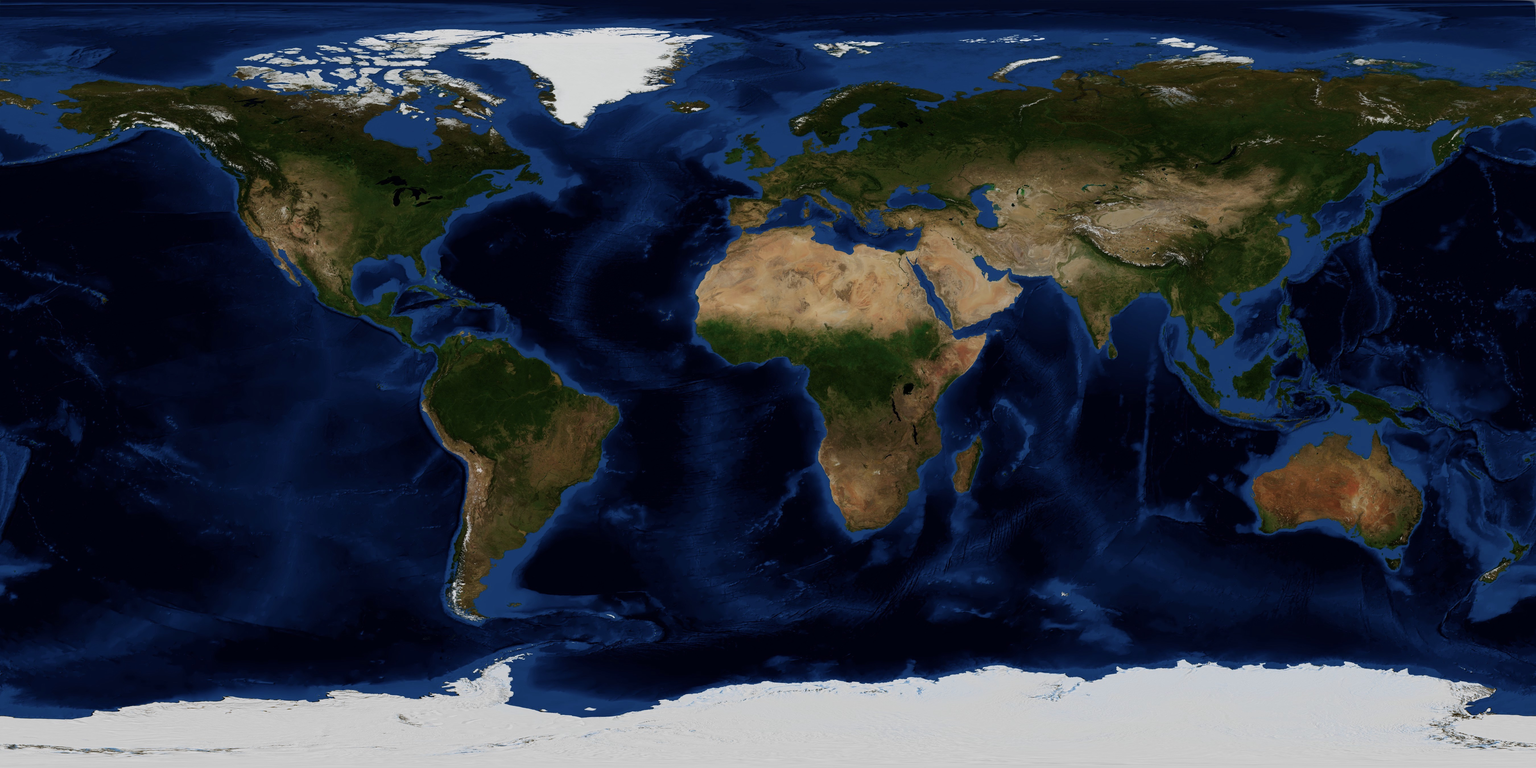
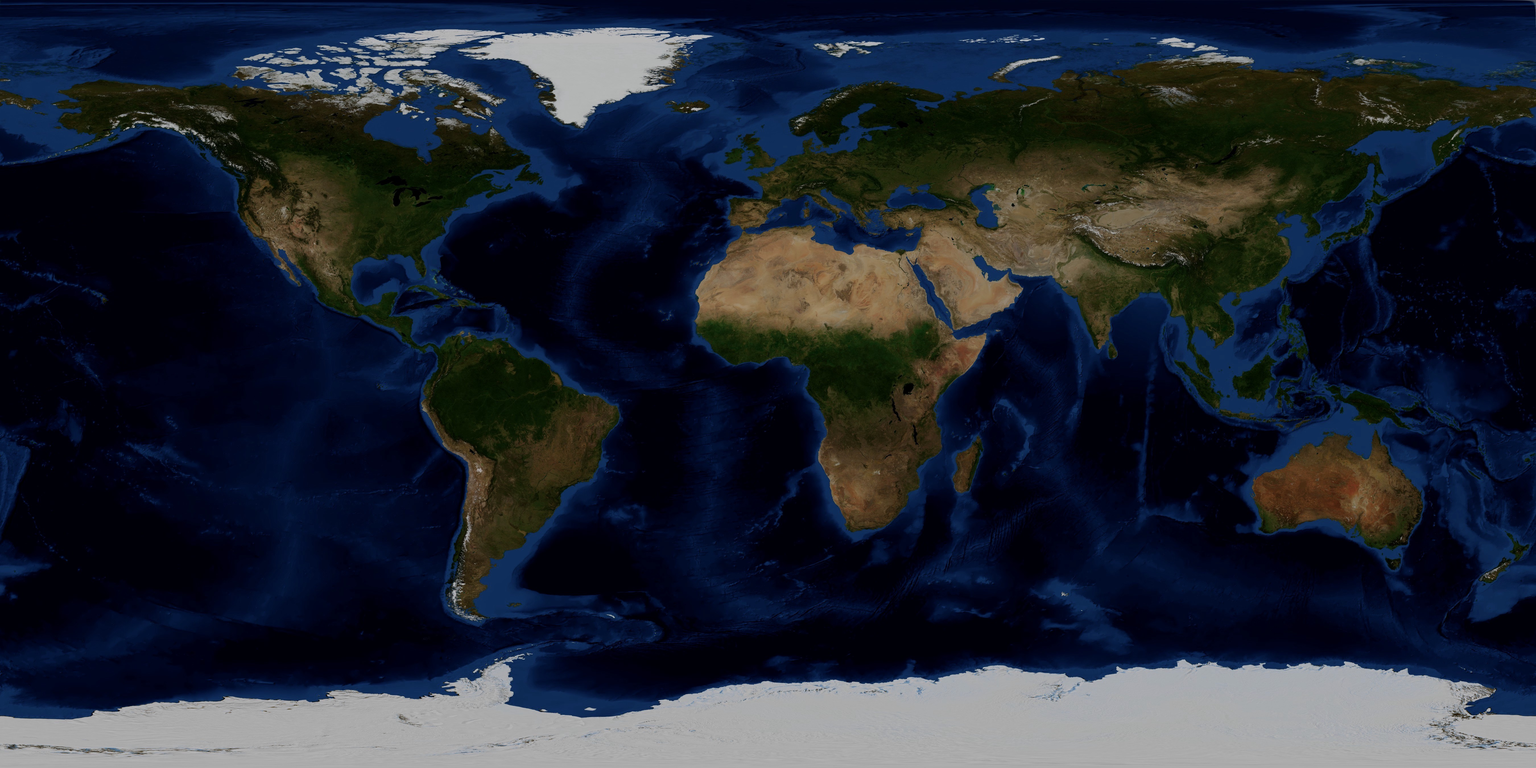
Added elevation to vertices

diff --git a/static/js/earth.js b/static/js/earth.js
@@ -1,34 +1,42 @@
-// import { Vector3 } from './three.js'
-// import { Vector2 } from './three.js'
-import * as THREE from 'three';
+import { Vector3 } from 'three'
+import { Vector2 } from 'three'
+// import * as THREE from 'three';
+import data from '../data/heightData4096.json' assert { type: 'json' };
 
 
 export default class Earth {
     constructor(radius, resolution, position) {
-        this.radius = radius
-        this.resolution = resolution
-        this.position = position
-        this.faces = []
+        this.radius = radius;
+        this.resolution = resolution;
+        this.position = position;
+        this.faces = [];
+
+		// fetch('https://server.com/data.json')
+		// .then((response) => response.json())
+		// .then((json) => console.log(json));
+		
+		// heightData = JSON.parse(data);
+		// console.log(data);
 
         // normal for each face     front, back, right, left, top, bottom
-        const normals = [new THREE.Vector3(0, 0, 1), 
-            new THREE.Vector3(0, 0, -1), 
-            new THREE.Vector3(1, 0, 0), 
-            new THREE.Vector3(-1, 0, 0), 
-            new THREE.Vector3(0, 1, 0), 
-            new THREE.Vector3(0, -1, 0)]
+        const normals = [new Vector3(0, 0, 1), 
+            new Vector3(0, 0, -1), 
+            new Vector3(1, 0, 0), 
+            new Vector3(-1, 0, 0), 
+            new Vector3(0, 1, 0), 
+            new Vector3(0, -1, 0)];
 
-        const axesAndCorner = [[new THREE.Vector3(1, 0, 0), new THREE.Vector3(0, -1, 0), new THREE.Vector3(-1, 1, 1)],
-            [new THREE.Vector3(-1, 0, 0), new THREE.Vector3(0, -1, 0), new THREE.Vector3(1, 1, -1)],
-            [new THREE.Vector3(0, 0, -1), new THREE.Vector3(0, -1, 0), new THREE.Vector3(1, 1, 1)],
-            [new THREE.Vector3(0, 0, 1), new THREE.Vector3(0, -1, 0), new THREE.Vector3(-1, 1, -1)],
-            [new THREE.Vector3(0, 0, 1), new THREE.Vector3(-1, 0, 0), new THREE.Vector3(1, 1, -1)],
-            [new THREE.Vector3(0, 0, 1), new THREE.Vector3(1, 0, 0), new THREE.Vector3(-1, -1, -1)]]
+        const axesAndCorner = [[new Vector3(1, 0, 0), new Vector3(0, -1, 0), new Vector3(-1, 1, 1)],
+            [new Vector3(-1, 0, 0), new Vector3(0, -1, 0), new Vector3(1, 1, -1)],
+            [new Vector3(0, 0, -1), new Vector3(0, -1, 0), new Vector3(1, 1, 1)],
+            [new Vector3(0, 0, 1), new Vector3(0, -1, 0), new Vector3(-1, 1, -1)],
+            [new Vector3(0, 0, 1), new Vector3(-1, 0, 0), new Vector3(1, 1, -1)],
+            [new Vector3(0, 0, 1), new Vector3(1, 0, 0), new Vector3(-1, -1, -1)]];
         
         // calls constructor to make each face
         for(let i=0; i<6; i++) {
-            let face = new PlanetFace(radius, resolution, normals[i], axesAndCorner[i], i)
-            this.faces[i] = face
+            let face = new PlanetFace(radius, resolution, normals[i], axesAndCorner[i], i);
+            this.faces[i] = face;
         }
     }
 }
@@ -36,99 +44,109 @@ export default class Earth {
 // builds each face
 class PlanetFace {
     constructor(radius, resolution, normal, axesAndCorner, face) {
-        this.vertices = []
+        this.vertices = [];
         //array storing UV coordinates
-        this.uvs = []
+        this.uvs = [];
         //face is on z = 0 line
-        this.indices = []
+        this.indices = [];
 
         // horizontal and vertical axes of plane
-        const axisA = axesAndCorner[0]
-        const axisB = axesAndCorner[1]
-        const cornerPoint = axesAndCorner[2]
+        const axisA = axesAndCorner[0];
+        const axisB = axesAndCorner[1];
+        const cornerPoint = axesAndCorner[2];
 
         // generate vertices, start at corner point then build along axis a then b
         for(let j=0; j <= resolution; j++) 
         {
-            const currentVertexB = axisB.clone()
-            currentVertexB.multiplyScalar((j / resolution) * 2)
+            const currentVertexB = axisB.clone();
+            currentVertexB.multiplyScalar((j / resolution) * 2);
             for(let k=0; k <= resolution; k++)
             {
-                const currentVertexA = axisA.clone()
-                currentVertexA.multiplyScalar((k / resolution) * 2)
+                const currentVertexA = axisA.clone();
+                currentVertexA.multiplyScalar((k / resolution) * 2);
 
-                let currentVertex = cornerPoint.clone()
-                currentVertex.add(currentVertexA).add(currentVertexB)
+				// add vertexB and vertexA to corner point to get current vertex location
+                let currentVertex = cornerPoint.clone();
+                currentVertex.add(currentVertexA).add(currentVertexB);
 
                 // currentVertex.normalize()
 
-                currentVertex = PlanetFace.cubeToSphere(currentVertex)
-                const currentUV = PlanetFace.pointOnSphereToUV(currentVertex)
+				// get location on sphere and UV
+                currentVertex = PlanetFace.cubeToSphere(currentVertex);
+                const currentUV = PlanetFace.pointOnSphereToUV(currentVertex);
 
-                // find height at point
+                // find height at point (inverse y so its not upside down)
+				let x = Math.round(data.length * currentUV.x);
+				let y = Math.round(data.length/2 - data.length/2 * currentUV.y);
 
+				// so x/y arent out of bounds (data.length is same as 0)
+				if(x == data.length) { x=0; }
+				if(y == data.length/2) { y=0; }
 
-                currentVertex.multiplyScalar(radius*2)
+				let heightMult = 0.03;
+				let vertexHeight = radius + data[x][y] / 255 * heightMult;
+
+                currentVertex.multiplyScalar(vertexHeight);
 
                 // on seam add another vertex with u = 1
                 if(currentVertex.z == 0 && normal.x != 1) {
                     if(currentVertex.x > 0) {
-                        this.uvs.push(currentUV.x, currentUV.y)
+                        this.uvs.push(currentUV.x, currentUV.y);
                     } else {
-                        this.uvs.push(1, currentUV.y)
+                        this.uvs.push(1, currentUV.y);
                     }
-                    this.vertices.push(currentVertex.x, currentVertex.y, currentVertex.z)
+                    this.vertices.push(currentVertex.x, currentVertex.y, currentVertex.z);
                 }
-                this.uvs.push(currentUV.x, currentUV.y) 
-                this.vertices.push(currentVertex.x, currentVertex.y, currentVertex.z)
+                this.uvs.push(currentUV.x, currentUV.y);
+                this.vertices.push(currentVertex.x, currentVertex.y, currentVertex.z);
             }
         }
 
-        let i = 0, resolutionX = resolution
+        let i = 0, resolutionX = resolution;
         if(normal.x == -1 || normal.y == 1 || normal.y == -1) {
-            resolutionX ++
+            resolutionX ++;
         }
         // build triangles from each point
         for(let j=0; j < resolution; j++) 
         {
             for(let k=0; k < resolutionX; k++)
             {
-                const a = i
-                const b = i + 1
-                const c = i + resolutionX + 1
-                const d = i + resolutionX + 2
+                const a = i;
+                const b = i + 1;
+                const c = i + resolutionX + 1;
+                const d = i + resolutionX + 2;
 
                 // add indices of both triangles
-                this.indices.push(a, c, b)
-                this.indices.push(c, d, b)
-                i++
+                this.indices.push(a, c, b);
+                this.indices.push(c, d, b);
+                i++;
             }
-            i++
+            i++;
         }
     }
 
     static cubeToSphere(p) {
-        const px = p.getComponent(0)
-        const py = p.getComponent(1)
-        const pz = p.getComponent(2)
+        const px = p.getComponent(0);
+        const py = p.getComponent(1);
+        const pz = p.getComponent(2);
     	const x2 = px * px;
     	const y2 = py * py;
     	const z2 = pz * pz;
     	const x = px * Math.sqrt(1 - (y2 + z2) / 2 + (y2 * z2) / 3);
     	const y = py * Math.sqrt(1 - (z2 + x2) / 2 + (z2 * x2) / 3);
     	const z = pz * Math.sqrt(1 - (x2 + y2) / 2 + (x2 * y2) / 3);
-    	return new THREE.Vector3(x, y, z);
+    	return new Vector3(x, y, z);
     }
 
-    // calculate all before hand and store in array
-    static pointOnSphereToUV(point) {
-        const p = point.clone()
-        // p.normalize()
-        const x = p.getComponent(0)
-        const y = p.getComponent(1)
-        const z = p.getComponent(2)
-        const v = 0.5 + (Math.asin(y) / Math.PI)
-        const u = 0.5 - (Math.atan2(z, x) / (2 * Math.PI))
-        return new THREE.Vector2(u, v)
+    // should calculate all before hand and store in array
+    static pointOnSphereToUV(p) {
+        // const p = point.clone();
+        // p.normalize();
+        const x = p.getComponent(0);
+        const y = p.getComponent(1);
+        const z = p.getComponent(2);
+        const v = 0.5 + (Math.asin(y) / Math.PI);
+        const u = 0.5 - (Math.atan2(z, x) / (2 * Math.PI));
+        return new Vector2(u, v);
     }
 }

diff --git a/static/js/main.js b/static/js/main.js
@@ -10,7 +10,7 @@ import Earth from './earth.js';
 const textureLoader = new THREE.TextureLoader();
 const normalTexture = textureLoader.load('./imgs/fullNormal.jfif');
 const earthTexture = textureLoader.load('./imgs/ULQColor_edit.jpg');
-const UVmap = textureLoader.load('./imgs/UVmap.png');
+// const UVmap = textureLoader.load('./imgs/UVmap.png');
 // console.log(earthTexture)
 
 
@@ -22,7 +22,7 @@ const scene = new THREE.Scene();
 
 // Materials
 const earthMat = new THREE.MeshStandardMaterial({
-    normalMap: normalTexture,
+    // normalMap: normalTexture,
     map: earthTexture
 });
 
@@ -30,7 +30,7 @@ const basicMat = new THREE.MeshBasicMaterial({
     map: earthTexture
 });
 
-const rad = 1, res = 100;
+const rad = 1, res = 1000;
 const earth = new Earth(rad, res, new THREE.Vector3(0, 0, 0));
 const earthGroup = new THREE.Group();
 
@@ -46,26 +46,31 @@ for(let i=0; i<6; i++) {
     geometry[i].setAttribute( 'uv', new THREE.Float32BufferAttribute(earth.faces[i].uvs, 2, res * res * 6));
     // console.log(geometry[i])
 
-    // const wireframe = new THREE.WireframeGeometry( geometry[i] )
-    // const line = new THREE.LineSegments( wireframe )
-    // line.material.depthTest = false
-    // line.material.opacity = 0.25
-    // line.material.transparent = true
-    // earthGroup.add(line)
+    // const wireframe = new THREE.WireframeGeometry( geometry[i] );
+    // const line = new THREE.LineSegments( wireframe );
+    // line.material.depthTest = false;
+    // line.material.opacity = 0.25;
+    // line.material.transparent = true;
+    // earthGroup.add(line);
 
 }
 let singleGeometry = BufferGeometryUtils.mergeGeometries(geometry);
-// const singleMesh = new THREE.Mesh(singleGeometry, earthMat);
-const singleMesh = new THREE.Mesh(singleGeometry, basicMat);
+const singleMesh = new THREE.Mesh(singleGeometry, earthMat);
+// const singleMesh = new THREE.Mesh(singleGeometry, basicMat);
 earthGroup.add(singleMesh);
 // console.log(earthGroup)
 
 scene.add(earthGroup);
 
 // Lights
-const pointLight = new THREE.PointLight(0xffffff, 5, 10);
-pointLight.position.set(-3.2, 2, 7.5);
-scene.add(pointLight);
+// const pointLight = new THREE.PointLight(0xffffff, 5, 15);
+// pointLight.position.set(-3.2, 2, 8);
+// scene.add(pointLight);
+
+const dirLight = new THREE.DirectionalLight(0xffffff, 1);
+dirLight.position.set(-.7, .2, 0.6);
+// dirLight.castShadow = true;
+scene.add(dirLight);
 
 let screenWidth = window.innerWidth;
 let screenHeight = window.innerHeight;
@@ -89,7 +94,7 @@ window.addEventListener('resize', () =>
 const camera = new THREE.PerspectiveCamera(75, screenWidth / screenHeight, 0.1, 100);
 camera.position.x = 0;
 camera.position.y = 0;
-camera.position.z = 4;
+camera.position.z = 2;
 scene.add(camera);
 
 // Controls
